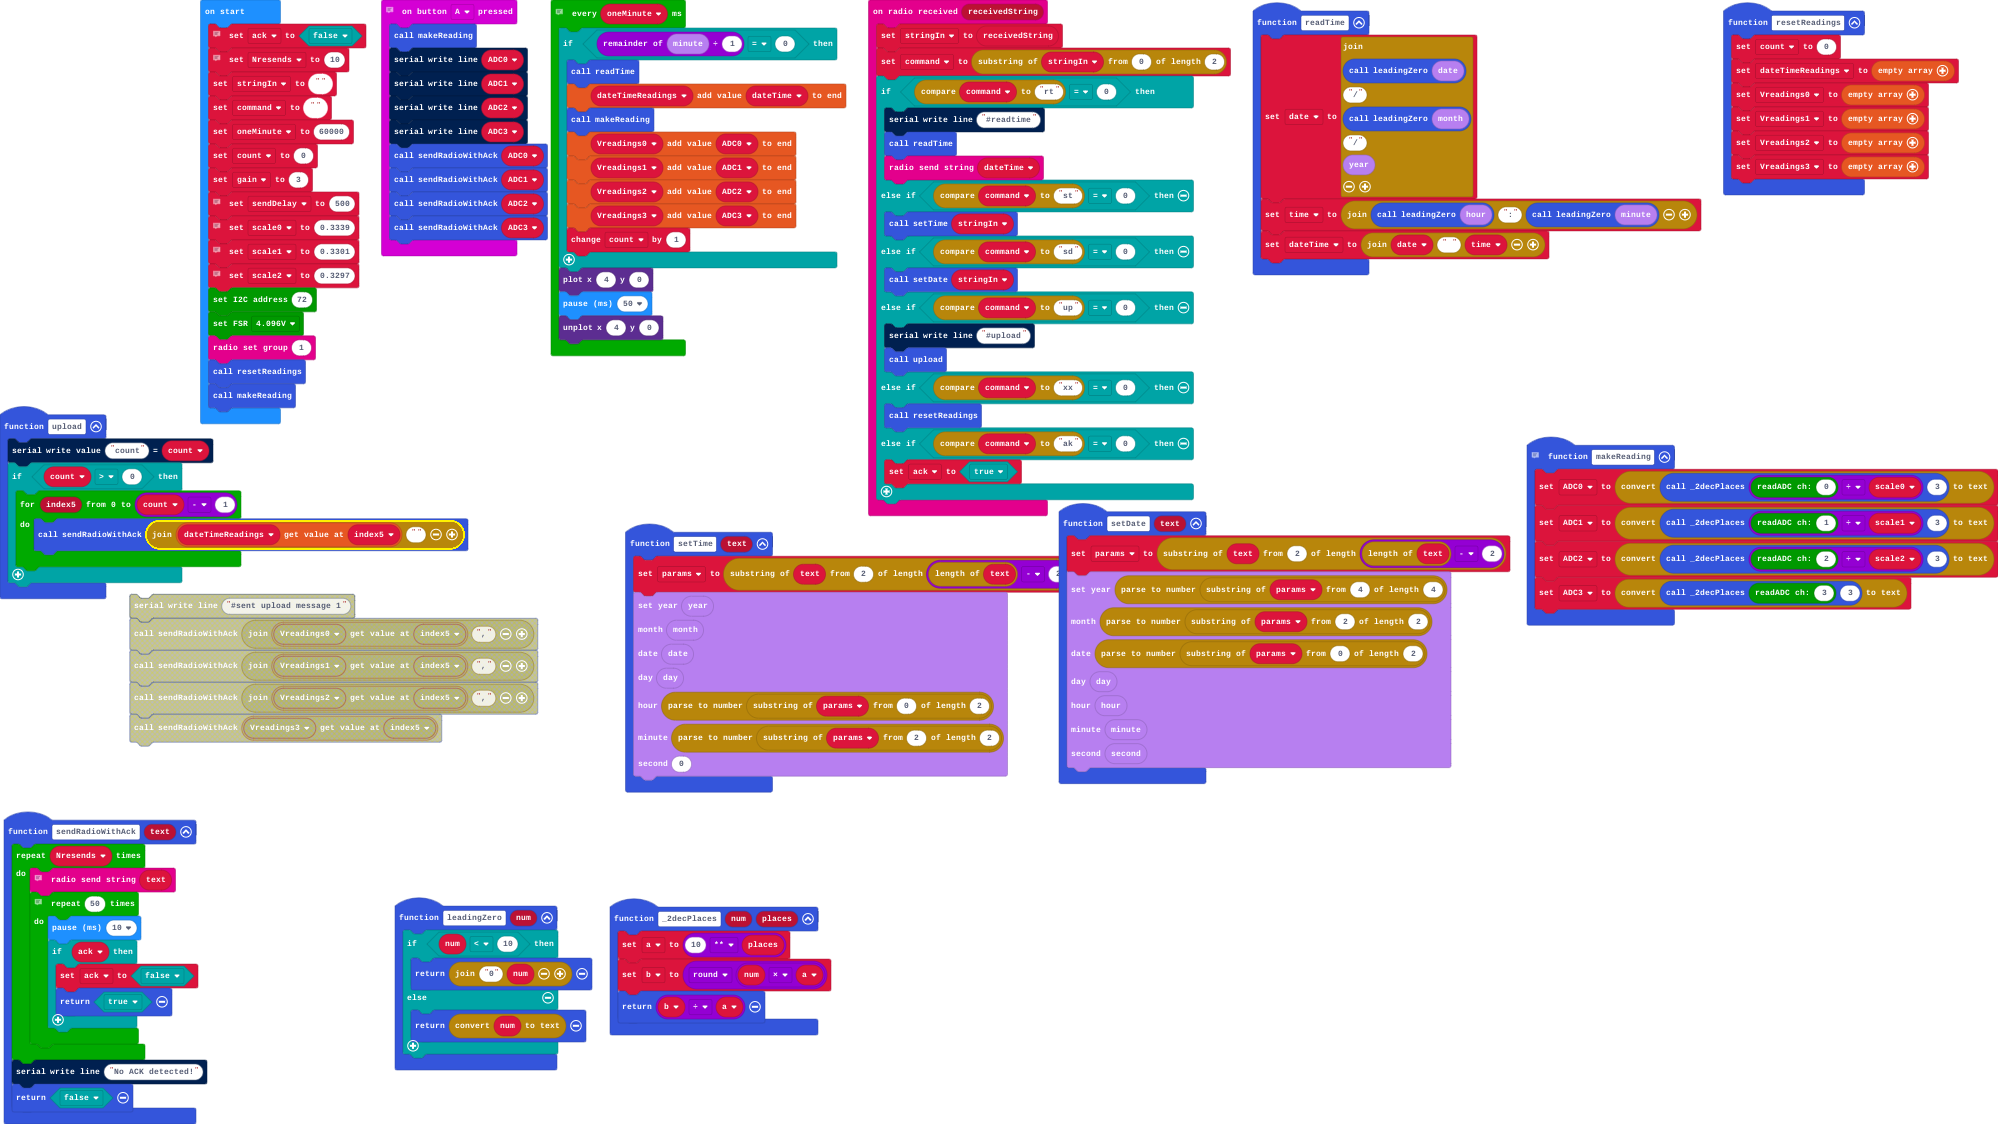
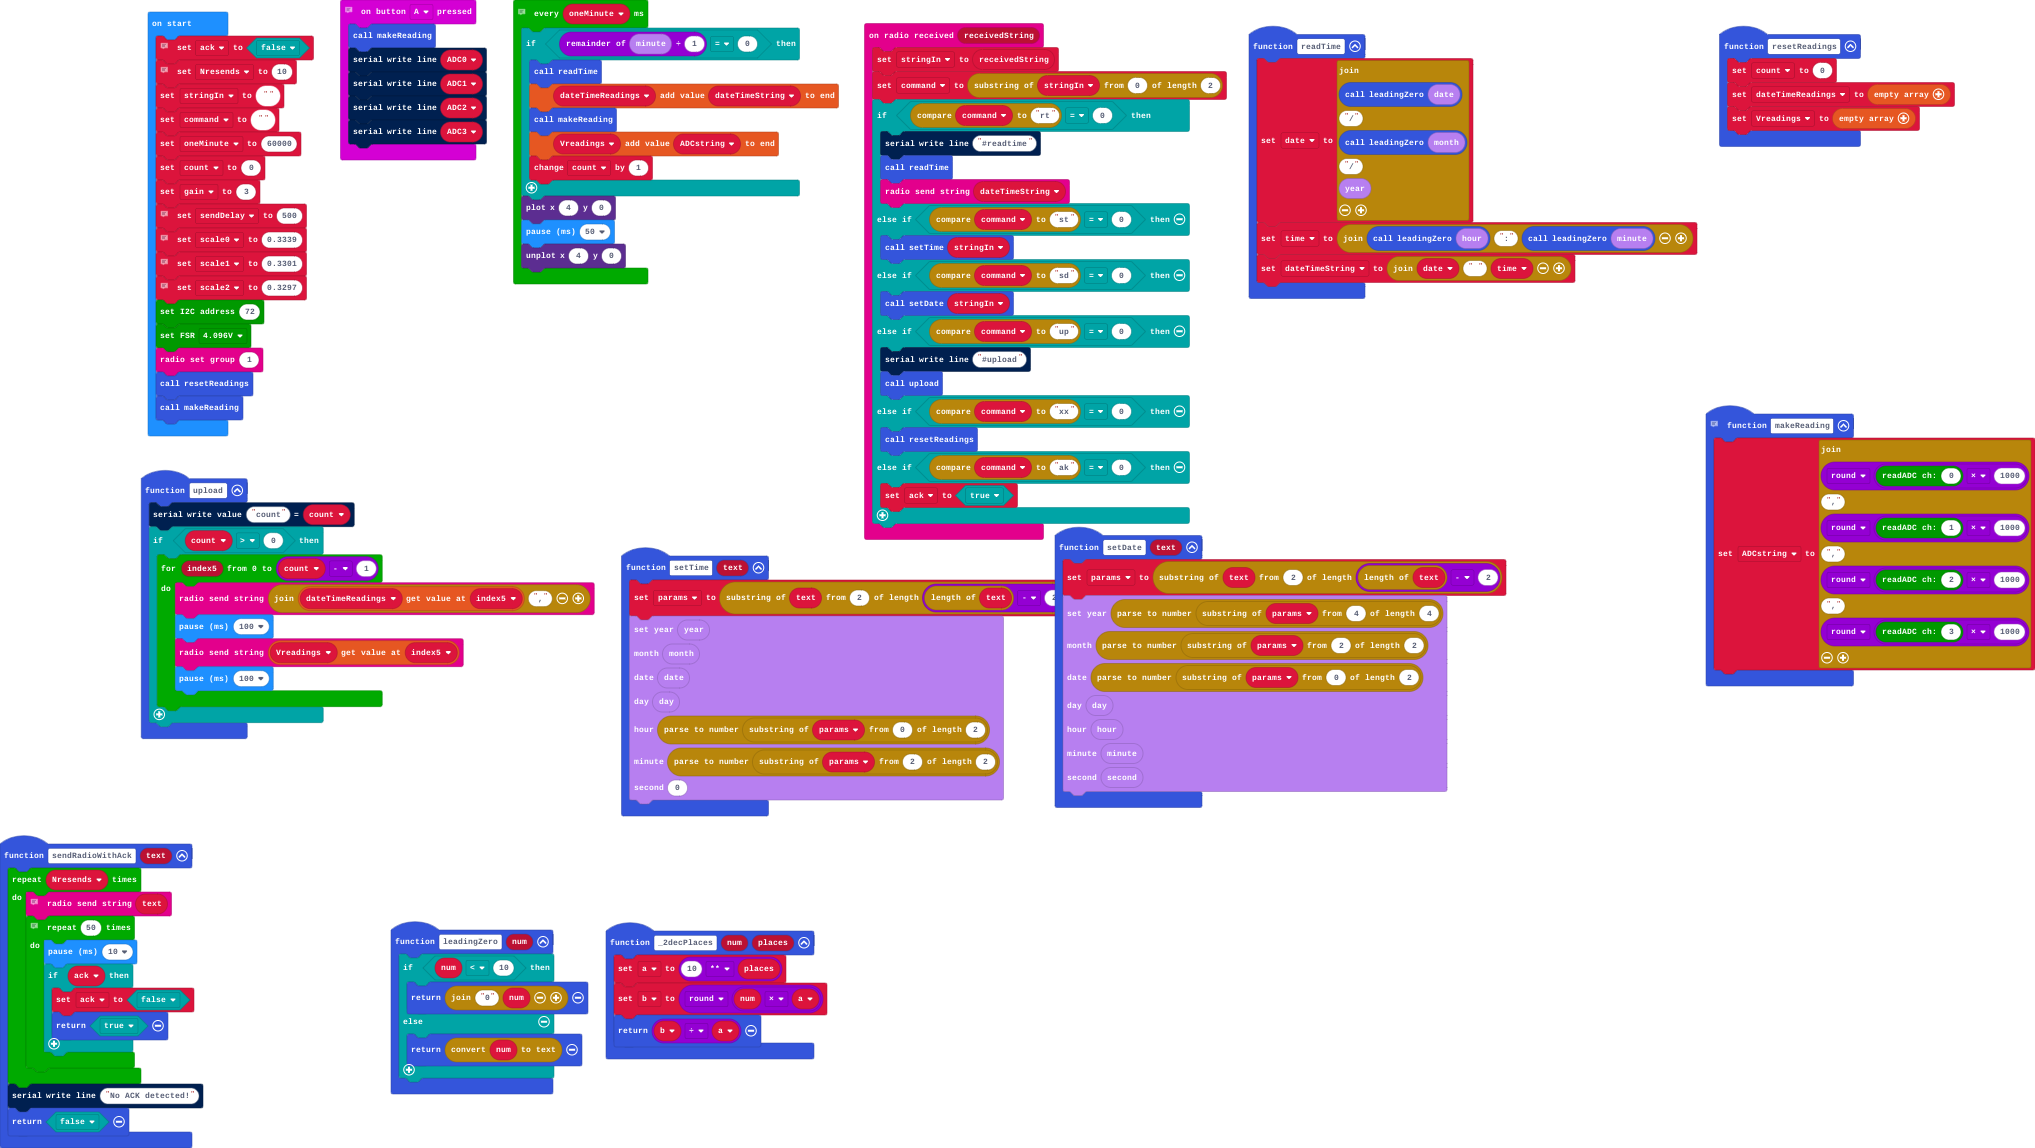
append comma to dateTimeString when uploading

diff --git a/main.ts b/main.ts
@@ -1,22 +1,16 @@
 function readTime () {
     date = "" + leadingZero(DS3231.date()) + "/" + leadingZero(DS3231.month()) + "/" + DS3231.year()
     time = "" + leadingZero(DS3231.hour()) + ":" + leadingZero(DS3231.minute())
-    dateTime = "" + date + " " + time
+    dateTimeString = "" + date + " " + time
 }
 // Round to 3 dec places, and multiply by gain for attenuated inputs
 function makeReading () {
-    ADC0 = convertToText(_2decPlaces(ADS1115.readADC(0) / scale0, 3))
-    ADC1 = convertToText(_2decPlaces(ADS1115.readADC(1) / scale1, 3))
-    ADC2 = convertToText(_2decPlaces(ADS1115.readADC(2) / scale2, 3))
-    ADC3 = convertToText(_2decPlaces(ADS1115.readADC(3), 3))
+    ADCstring = "" + Math.round(ADS1115.readADC(0) * 1000) + "," + Math.round(ADS1115.readADC(1) * 1000) + "," + Math.round(ADS1115.readADC(2) * 1000) + "," + Math.round(ADS1115.readADC(3) * 1000)
 }
 function resetReadings () {
     count = 0
     dateTimeReadings = []
-    Vreadings0 = []
-    Vreadings1 = []
-    Vreadings2 = []
-    Vreadings3 = []
+    Vreadings = []
 }
 function leadingZero (num: number) {
     if (num < 10) {
@@ -32,15 +26,15 @@ function _2decPlaces (num: number, places: number) {
 }
 // Instant Reading
 input.onButtonPressed(Button.A, function () {
+    let ADC3 = 0
+    let ADC2 = 0
+    let ADC1 = 0
+    let ADC0 = 0
     makeReading()
-    serial.writeLine(ADC0)
-    serial.writeLine(ADC1)
-    serial.writeLine(ADC2)
-    serial.writeLine(ADC3)
-    sendRadioWithAck(ADC0)
-    sendRadioWithAck(ADC1)
-    sendRadioWithAck(ADC2)
-    sendRadioWithAck(ADC3)
+    serial.writeLine("" + (ADC0))
+    serial.writeLine("" + (ADC1))
+    serial.writeLine("" + (ADC2))
+    serial.writeLine("" + (ADC3))
 })
 function sendRadioWithAck (text: string) {
     for (let index = 0; index < Nresends; index++) {
@@ -74,7 +68,10 @@ function upload () {
     serial.writeValue("count", count)
     if (count > 0) {
         for (let index5 = 0; index5 <= count - 1; index5++) {
-            sendRadioWithAck("" + dateTimeReadings[index5] + "")
+            radio.sendString("" + dateTimeReadings[index5] + ",")
+            basic.pause(100)
+            radio.sendString("" + (Vreadings[index5]))
+            basic.pause(100)
         }
     }
 }
@@ -96,7 +93,7 @@ radio.onReceivedString(function (receivedString) {
     if (command.compare("rt") == 0) {
         serial.writeLine("#readtime")
         readTime()
-        radio.sendString(dateTime)
+        radio.sendString(dateTimeString)
     } else if (command.compare("st") == 0) {
         setTime(stringIn)
     } else if (command.compare("sd") == 0) {
@@ -113,21 +110,12 @@ radio.onReceivedString(function (receivedString) {
 let params = ""
 let b = 0
 let a = 0
-let Vreadings3: string[] = []
-let Vreadings2: string[] = []
-let Vreadings1: string[] = []
-let Vreadings0: string[] = []
+let Vreadings: string[] = []
 let dateTimeReadings: string[] = []
-let ADC3 = ""
-let ADC2 = ""
-let ADC1 = ""
-let ADC0 = ""
-let dateTime = ""
+let ADCstring = ""
+let dateTimeString = ""
 let time = ""
 let date = ""
-let scale2 = 0
-let scale1 = 0
-let scale0 = 0
 let count = 0
 let command = ""
 let stringIn = ""
@@ -145,11 +133,11 @@ let gain = 3
 // Delay between sending Radio messages
 let sendDelay = 500
 // Accurate scaling for attenuators
-scale0 = 0.3339
+let scale0 = 0.3339
 // Accurate scaling for attenuators
-scale1 = 0.3301
+let scale1 = 0.3301
 // Accurate scaling for attenuators
-scale2 = 0.3297
+let scale2 = 0.3297
 ADS1115.setADDR(72)
 ADS1115.setFSR(FSR.V4)
 radio.setGroup(1)
@@ -159,12 +147,9 @@ makeReading()
 loops.everyInterval(oneMinute, function () {
     if (DS3231.minute() % 1 == 0) {
         readTime()
-        dateTimeReadings.push(dateTime)
+        dateTimeReadings.push(dateTimeString)
         makeReading()
-        Vreadings0.push(ADC0)
-        Vreadings1.push(ADC1)
-        Vreadings2.push(ADC2)
-        Vreadings3.push(ADC3)
+        Vreadings.push(ADCstring)
         count += 1
     }
     led.plot(4, 0)
